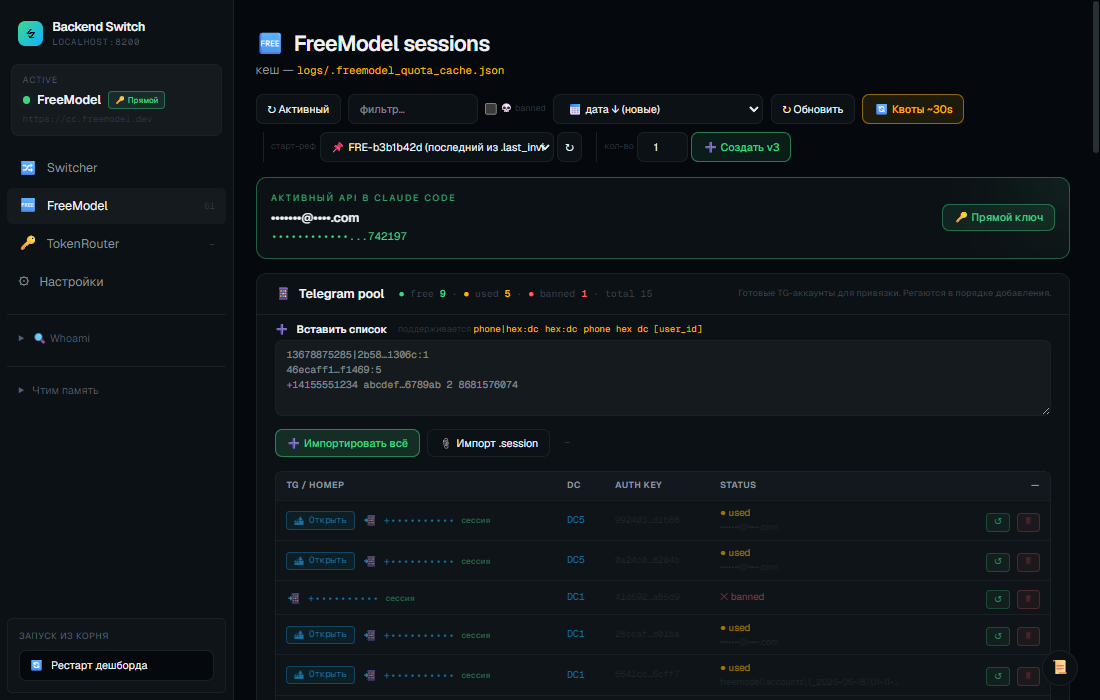
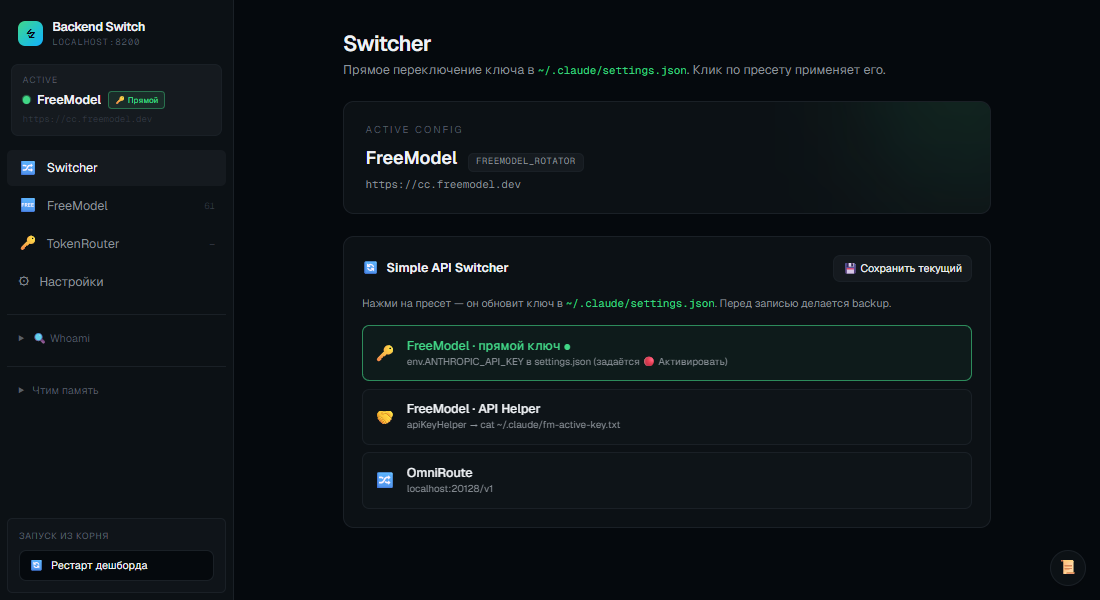
docs: Switcher hero + Telegram session docs (deps, pool, ✈ open)
- hero screenshot → Switcher (3 presets), FreeModel shot moved to its section
- install step 2b: tools/tg-venv (opentele/PyQt5) + portable Telegram Desktop
- FreeModel section: mode toggle, TG pool import formats, source tags, ✈ Открыть
- structure + troubleshooting rows for the TG opener
- gitignore: un-ignore docs/*.png so README screenshots stay tracked

diff --git a/README.md b/README.md
@@ -6,9 +6,9 @@
 
 <br>
 
-![Dashboard](docs/dashboard.png)
+![Switcher](docs/dashboard.png)
 
-<sub>Backend Switch · <code>localhost:8200/__switch</code> — менеджер FreeModel-сессий с пулом Telegram-привязок и квотами</sub>
+<sub>Backend Switch · <code>localhost:8200/__switch</code> — переключение backend'а Claude Code (FreeModel / API Helper / OmniRoute) одним кликом</sub>
 
 <br>
 
@@ -31,6 +31,15 @@ npx playwright install chromium
 pip install camoufox requests
 python -m camoufox fetch
 ```
+
+**2b. Telegram session opener** (опционально) — для кнопки **✈ Открыть** (открыть TG-сессию пула в портативном Telegram Desktop). Нужен **Python 3.12** (`opentele` тянет `telethon` + `PyQt5`).
+
+```bash
+python3.12 -m venv tools/tg-venv
+tools/tg-venv/Scripts/pip install -r tools/tg-venv-requirements.txt
+```
+
+Скачай **портативный Telegram Desktop** и положи бинарь в `tools/telegram-portable/Telegram/Telegram.exe`. Профили сессий складываются в `tools/tg-profiles/<phone>/` (всё в `.gitignore`).
 
 **3. Конфиг**
 
@@ -90,10 +99,15 @@ routing\restart-dashboard.bat
 
 ### FreeModel
 
+![FreeModel](docs/freemodel.png)
+
 Менеджер сессий `freemodel.dev` с квотами и пулом Telegram-привязок.
 
-- **Активный API в Claude Code** — какой ключ сейчас в `settings.json`.
-- **Telegram pool** — готовые TG-аккаунты (`phone|auth_key_hex:dc`) для привязки к новым freemodel-аккаунтам. Расходуются по порядку: `free → used → banned`. Импорт списком или `.session`.
+- **Активный API в Claude Code** — какой ключ сейчас в `settings.json`. Бейдж режима: 🔑 **Прямой ключ** (`env.ANTHROPIC_API_KEY`) или 🤝 **API Helper** (`apiKeyHelper` читает `~/.claude/fm-active-key.txt`). На каждой сессии — тумблер 🔑 Ключ / 🤝 Helper.
+- **Telegram pool** — готовые TG-аккаунты для привязки к новым freemodel-аккаунтам. Расходуются по порядку: `free → used → banned`.
+  - **Импорт** списком: `phone|hex:dc`, `hex:dc`, `phone hex dc [user_id]` (по строке на акк) — или загрузкой `.session` (Pyrogram/Telethon).
+  - `hex:dc` без номера → имя-плейсхолдер `tg_<hex8>`; привязка идёт по `auth_key`, **номер не нужен**. Тег источника: **сессия** (`.session`) / **вручную** (hex).
+  - **✈ Открыть** — открыть сессию в портативном Telegram Desktop (`tools/tg-open.py` → `opentele`, `UseCurrentSession`). Отдельный `-workdir` на аккаунт — твой основной клиент не трогается.
 - **Сессии** — таблица с таймером, доступным `$`, окнами 5h/7d и квотой. **➕ Создать v3** реги пачкой, **🔄 Квоты ~30s** перепрогон через headless Chrome.
 
 **Цвет квоты:** 🟢 < 40% · 🟡 40–70% · 🔴 > 70%
@@ -250,6 +264,8 @@ node routing/transparent-proxy.js        # switcher вручную
 | `internal/dashboard-api.js` | Прослойка CLI ↔ HTTP |
 | `internal/freemodel-manager.js` | FreeModel-сессии + квоты + TG-пул |
 | `freemodel/` · `routing/tokenrouter/` | Auto-reg скрипты |
+| `tools/tg-open.py` | Открытие TG-сессии в портативном Telegram Desktop (opentele) |
+| `tools/{tg-venv,telegram-portable,tg-profiles}` | _gitignored_ — venv, бинарь Telegram, tdata-профили |
 | `manual_sessions/` · `ready_to_sell/` · `errors/` | _gitignored_ — сессии и ошибки |
 | `menu.js` | TUI-меню (всё-в-одном) |
 
@@ -278,6 +294,10 @@ node routing/transparent-proxy.js        # switcher вручную
 <tr>
   <td>Квоты в кеше устарели</td>
   <td>Кнопка <b>🔄 Квоты ~30s</b> в табе — перепрогон через headless Chrome</td>
+</tr>
+<tr>
+  <td><b>✈ Открыть</b> падает / <code>нет tools/tg-venv</code></td>
+  <td>Не создан venv или нет бинаря — см. install шаг <b>2b</b> (<code>opentele</code> + портативный Telegram в <code>tools/telegram-portable/Telegram/Telegram.exe</code>). Проверка: <code>tools/tg-venv/Scripts/python.exe tools/tg-open.py &lt;phone&gt; --check</code></td>
 </tr>
 </table>
 
